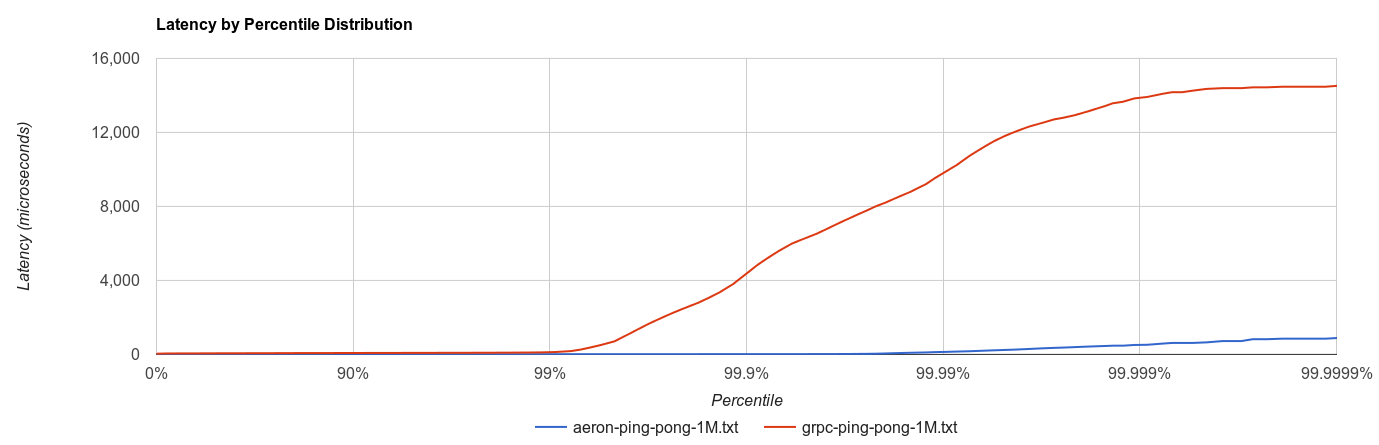
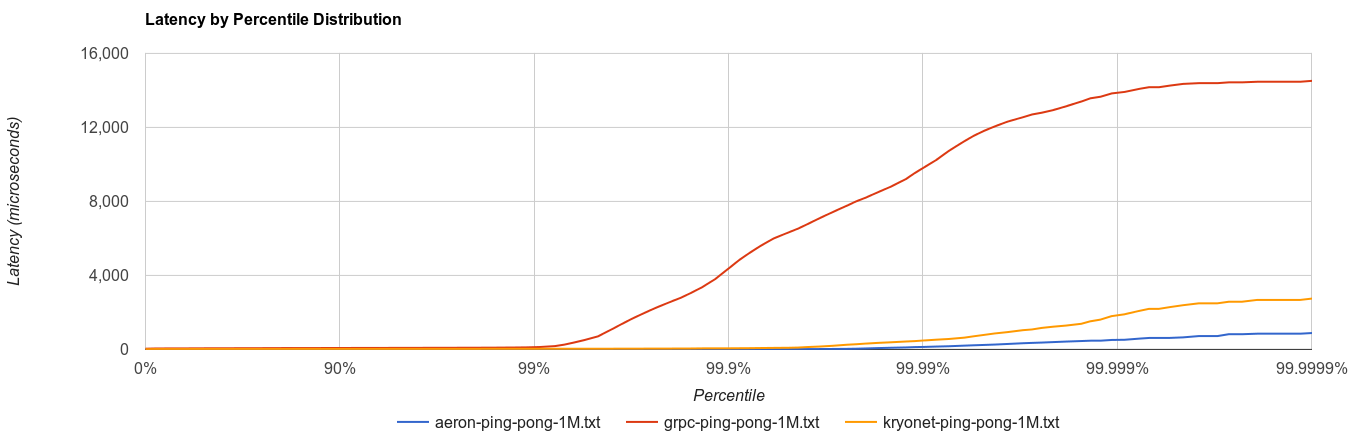
Add KryoNet to report

diff --git a/results/20161024/README.md b/results/20161024/README.md
@@ -5,6 +5,10 @@
 This report updates a [prior report](https://github.com/benalexau/rpc-bench/blob/master/results/20160920/README.md).
 Please refer to the prior report for background information.
 
+[KryoNet](https://github.com/EsotericSoftware/kryonet) was also added in this
+version of the report. KryoNet is a JVM-only solution that uses its own TCP or
+UDP connections and the fast Kryo serializer.
+
 ### Benchmark Update
 
 #### Ping-Pong
@@ -18,24 +22,39 @@ ping-pong benchmark was redesigned. The main changes are:
 4. gRPC was changed to use a bidirectional stream (not request-response)
 5. Aeron message payloads were reduced to that necessary for each sent message
 6. Aeron was configured to not perform bounds checking via its buffer
+7. Addition of KryoNet to the benchmark
 
 #### Price Stream
 
 The following changes applied to the price stream benchmark:
 
 1. Aeron was configured to not perform bounds checking via its buffer
+2. Addition of KryoNet to the benchmark
+
+#### KryoNet Configuration
+
+While KryoNet supports TCP and UDP, only TCP offers guarantees around message
+ordering and retry. Confining the test to TCP therefore reflects the quality of
+service guarantees made by Aeron (which uses UDP but with automatic management
+of delivery order and retry) and gRPC (which uses HTTP 2 transport).
+
+For the KryoNet server, the ping-pong responder ran in the same thread as the
+KryoNet server. The price stream responder ran in a different thread given its
+long execution duration blocks the KryoNet server thread and disconnects the
+client.
 
 #### Machine Configuration
 
 The following changes were made:
 
 1. Aeron was upgraded to version 1.0.2
-2. Protocol Buffers was updated to version 3.1.0
+2. Protocol Buffers was upgraded to version 3.1.0
 3. Linux was upgraded to version 4.7.4
+4. KryoNet was added with version 2.22.0-RC1 and Kryo version 4.0.0
 
 ### Benchmark Reproduction
 
-This benchmark was run with Git revision 1413ae5b6412cab4cdf8d0b3a58f7c781d74e6e0.
+This benchmark was run with Git revision 317a91a9156cf546b97281ba7fe850ce955533dd.
 
 ### Results
 
@@ -45,22 +64,22 @@ All values are in microseconds.
 
 ![img](ping-pong.png)
 
-| Percentile | [gRPC](grpc-ping-pong-1M.txt) | [Aeron](aeron-ping-pong-1M.txt) |
-| ---------- | ------: | --: |
-| 0.00       | 37      | 3   |
-| 0.10       | 48      | 4   |
-| 0.20       | 51      | 4   |
-| 0.30       | 54      | 4   |
-| 0.40       | 56      | 4   |
-| 0.50       | 59      | 4   |
-| 0.60       | 62      | 4   |
-| 0.70       | 65      | 5   |
-| 0.80       | 69      | 5   |
-| 0.90       | 76      | 6   |
-| 0.95       | 81      | 6   |
-| 0.99       | 130     | 8   |
-| 0.999      | 4,452   | 13  |
-| 1.00       | 14,532  | 895 |
+| Percentile | [gRPC](grpc-ping-pong-1M.txt) | [KryoNet](kryonet-ping-pong-1M.txt) | [Aeron](aeron-ping-pong-1M.txt) |
+| ---------- | ------: | ----: | --: |
+| 0.00       | 37      | 11    | 3   |
+| 0.10       | 48      | 17    | 4   |
+| 0.20       | 51      | 18    | 4   |
+| 0.30       | 54      | 18    | 4   |
+| 0.40       | 56      | 18    | 4   |
+| 0.50       | 59      | 19    | 4   |
+| 0.60       | 62      | 20    | 4   |
+| 0.70       | 65      | 21    | 5   |
+| 0.80       | 69      | 22    | 5   |
+| 0.90       | 76      | 24    | 6   |
+| 0.95       | 81      | 26    | 6   |
+| 0.99       | 130     | 33    | 8   |
+| 0.999      | 4,452   | 61    | 13  |
+| 1.00       | 14,532  | 2,770 | 895 |
 
 Despite ping-pong benchmark changes that would assist gRPC (eg using a single
 bidirectional stream, throttling requests to a level that gRPC can easily
@@ -71,26 +90,27 @@ continues to provide much lower and more stable latency.
 
 ![img](price-stream.png)
 
-| Percentile | [gRPC](grpc-price-stream-100M.txt) | [Aeron](aeron-price-stream-100M.txt) |
-| ---------- | ------------: | ----------: |
-| 0.00       | 5,570         | 136         |
-| 0.10       | 107,374,182   | 682,622     |
-| 0.20       | 211,392,921   | 1,214,251   |
-| 0.30       | 319,975,063   | 1,719,664   |
-| 0.40       | 432,717,955   | 2,222,981   |
-| 0.50       | 546,266,152   | 2,736,783   |
-| 0.60       | 603,442,905   | 3,244,294   |
-| 0.70       | 658,740,609   | 3,743,416   |
-| 0.80       | 770,409,758   | 4,236,247   |
-| 0.90       | 992,137,445   | 4,739,563   |
-| 0.95       | 1,048,508,891 | 4,987,027   |
-| 0.99       | 1,094,679,789 | 5,188,354   |
-| 0.999      | 1,104,880,336 | 5,230,297   |
-| 1.00       | 1,105,954,078 | 5,234,491   |
+| Percentile | [gRPC](grpc-price-stream-100M.txt) | [KryoNet](kryonet-price-stream-100M.txt) | [Aeron](aeron-price-stream-100M.txt) |
+| ---------- | ------------: | ----------: | ----------: |
+| 0.00       | 5,570         |       1,589 | 136         |
+| 0.10       | 107,374,182   |  38,990,249 | 682,622     |
+| 0.20       | 211,392,921   |  77,510,737 | 1,214,251   |
+| 0.30       | 319,975,063   | 115,427,246 | 1,719,664   |
+| 0.40       | 432,717,955   | 155,155,693 | 2,222,981   |
+| 0.50       | 546,266,152   | 192,468,221 | 2,736,783   |
+| 0.60       | 603,442,905   | 228,707,008 | 3,244,294   |
+| 0.70       | 658,740,609   | 265,616,883 | 3,743,416   |
+| 0.80       | 770,409,758   | 301,184,581 | 4,236,247   |
+| 0.90       | 992,137,445   | 338,765,545 | 4,739,563   |
+| 0.95       | 1,048,508,891 | 355,408,543 | 4,987,027   |
+| 0.99       | 1,094,679,789 | 370,977,800 | 5,188,354   |
+| 0.999      | 1,104,880,336 | 374,467,461 | 5,230,297   |
+| 1.00       | 1,105,954,078 | 374,735,896 | 5,234,491   |
 
 Aeron delivered over 19 million messages per second, completing the transfer
-211 times faster than gRPC. This is a material improvement since the prior
-benchmark report and is mostly due to buffer bounds checks being disabled.
+211 times faster than gRPC and 71 times faster than KryoNet. This is a material
+improvement since the prior benchmark report and is mostly due to buffer bounds
+checks being disabled.
 
 Aeron's user-defined throughput was 44 bytes per message, consisting of an 8
 byte user reserved value field (not used in the benchmark, but sent anyway), an
@@ -101,7 +121,7 @@ megabytes of user-defined content per second.
 
 As was seen in the prior benchmark, Aeron continues to deliver exceptional
 performance and latency outcomes. The prior report's qualifier around the
-very different focuses of the two stacks is again reiterated.
+very different focuses of the stacks is again reiterated.
 
 If you are interested in other low latency benchmarks on the JVM, you might like
 to browse our

diff --git a/README.md b/README.md
@@ -1,6 +1,6 @@
 # RPC Benchmark
 
-This benchmark compares gRPC and Aeron.
+This benchmark compares gRPC, Aeron and KryoNet.
 
 ![img](results/20161024/ping-pong.png)
 ![img](results/20161024/price-stream.png)
